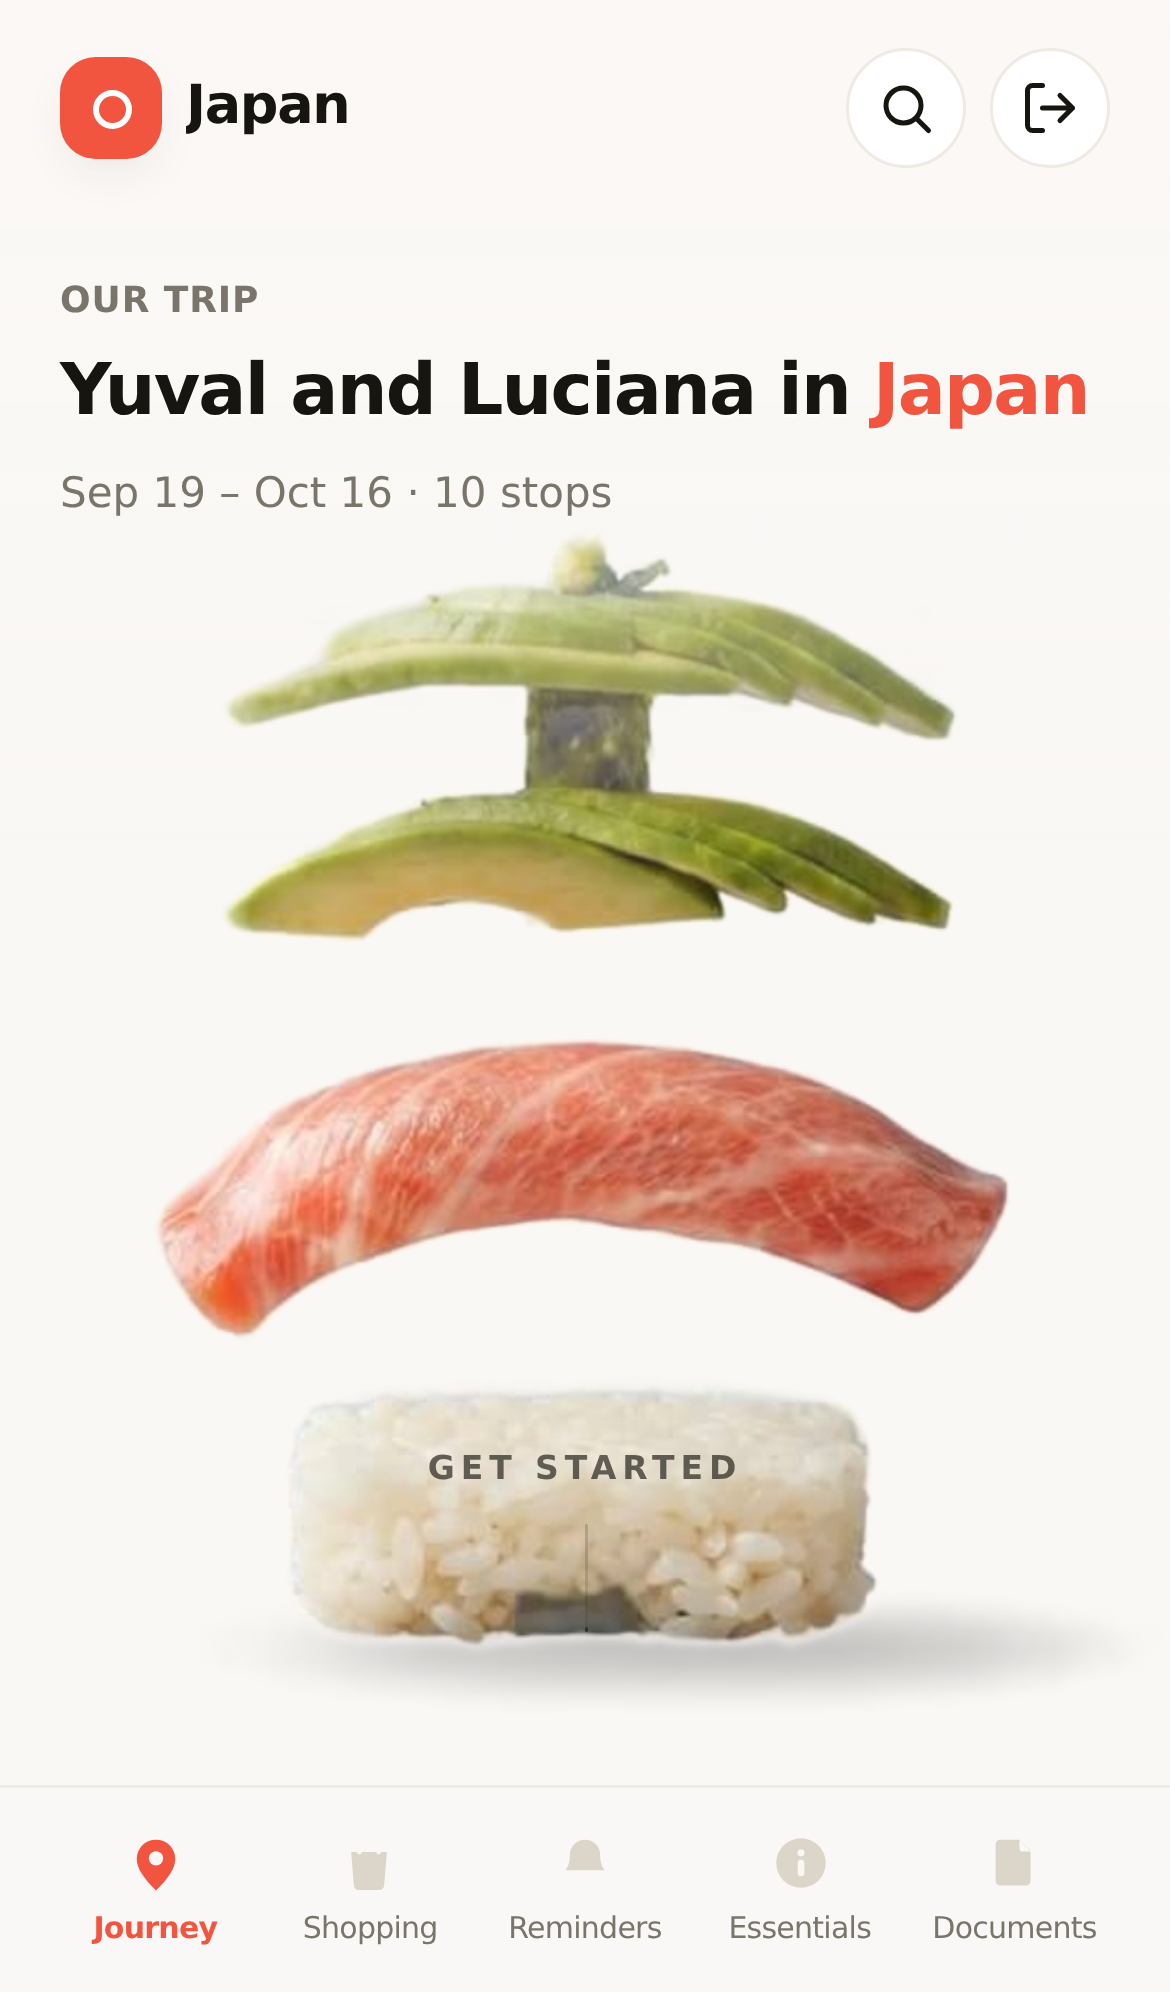
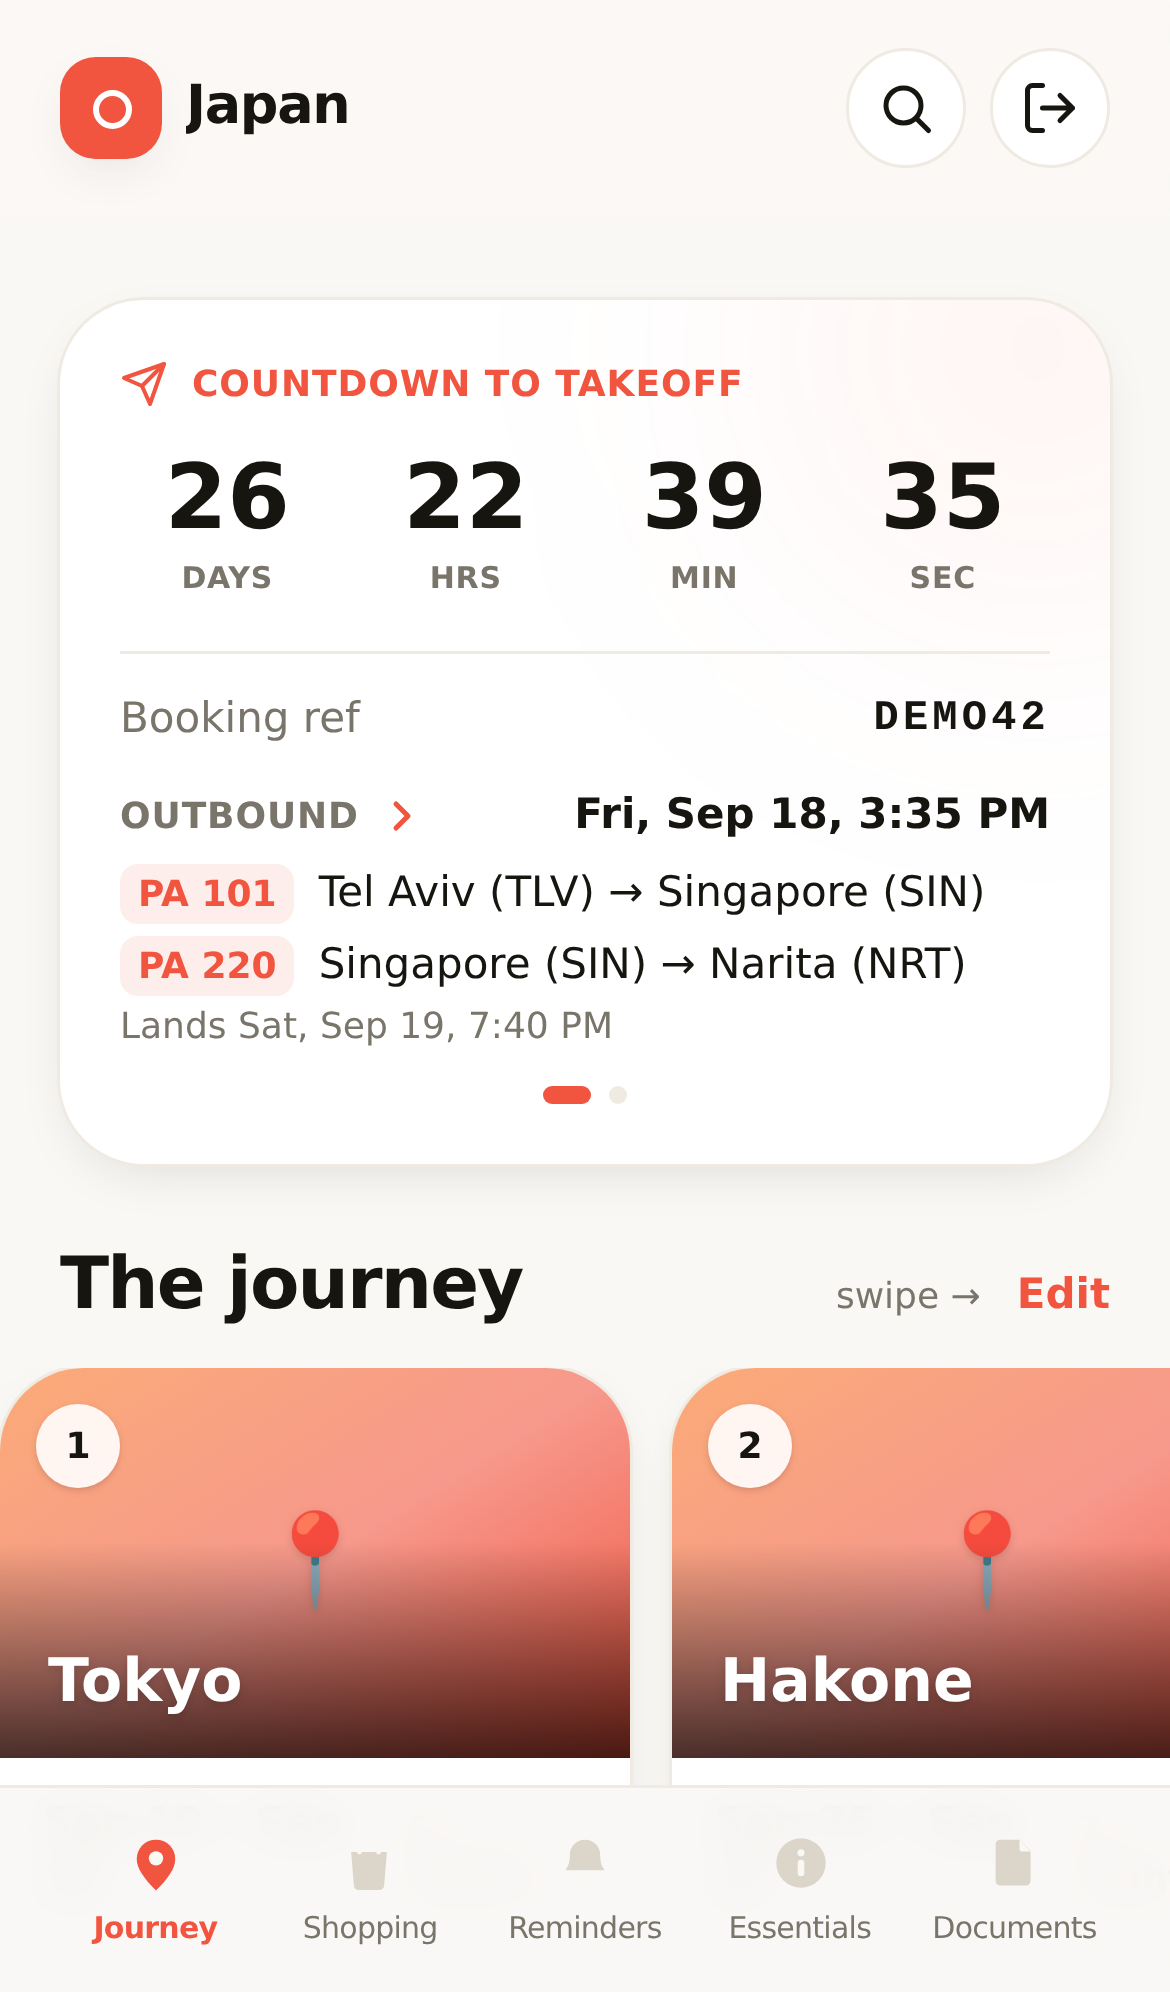
fix(video): a whole device, real content in it, and no real booking
Three things the first cut got wrong.

**The device looked broken.** Bleeding the handset off the bottom edge
kept the UI legible, but it reads as a bad crop rather than a choice. It
is now a complete screen — bezel on all four sides, air above and below —
and the screenshot scrolls *inside* it. Same legibility, nothing cut.

**The footage was one viewport deep.** A screenshot captures what is on
screen, so the journey shot was the pinned sushi hero rather than the
journey, and the line about ten cities played over a floating avocado.
Shots can now name what to scroll into view — by selector, not by pixel
offset, because the page height moves with the content and with whether
the hero is pinned. The journey shot is now the countdown, the flight and
the first stops, which is what the line is about.

**It published a real booking reference.** `placeholder-data.json` holds
the travellers' actual Ethiopian Airlines reference and ticket numbers,
correctly — it mirrors the live database. Correct for a seed, wrong for a
video going on LinkedIn. The capture rig now substitutes a fictional
booking, and leaves the seed alone.

Claude-Session: https://claude.ai/code/session_01Hr2wL4xGD7xVtsfP9goZ5v

diff --git a/video/src/onward/PhoneFrame.tsx b/video/src/onward/PhoneFrame.tsx
@@ -1,61 +1,78 @@
-// A phone with a real screenshot in it.
+// A phone screen, whole, with a real screenshot scrolling inside it.
 //
-// The captures are 1170×2532 — far taller than a square frame — so the frame
-// bleeds off the bottom and `focus` picks which part of the screen sits in
-// view. Showing a whole phone shrunk to fit would make the UI unreadable,
-// which defeats the point of capturing the real thing.
+// The captures are 1170×2532 — two and a half times taller than a 1080 square
+// frame. An entire handset scaled to fit would put the app's body text at
+// about five pixels in a feed, which is no use to anyone; bleeding the handset
+// off the bottom keeps it legible but reads as a broken crop rather than a
+// choice. So the device is a *window*: a complete, self-contained screen with
+// bezel on all four sides, and `focus` decides which part of the tall
+// screenshot sits in it.
 import { AbsoluteFill, CanvasImage, Easing, interpolate, staticFile } from 'remotion'
 import { COLORS } from './theme'
 
 const SHOT_W = 1170
 const SHOT_H = 2532
 
-export const PHONE_W = 646
-export const PHONE_TOP = 372
+/** The visible screen, inside the bezel. */
+export const SCREEN_W = 640
+export const SCREEN_H = 680
+const BEZEL = 11
+export const DEVICE_TOP = 300
+
+/** How far the screenshot can travel before its bottom edge shows. */
+const SCALE = SCREEN_W / SHOT_W
+const FULL_H = SHOT_H * SCALE
+const MAX_TRAVEL = FULL_H - SCREEN_H
+
+/** A slow drift over the shot's life, so it reads as scrolling, not as a still. */
+const DRIFT = 58
 
 export const PhoneFrame: React.FC<{
   screen: string
-  /** 0 = top of the screenshot in view, 1 = bottom. */
+  /** 0 = the top of the screenshot in view, 1 = the bottom. */
   focus: number
   /** Frames since this screen appeared, for the entrance. */
   localFrame: number
 }> = ({ screen, focus, localFrame }) => {
-  const scale = PHONE_W / SHOT_W
-  const screenH = SHOT_H * scale
-  // How far the screenshot slides up inside the frame to show `focus`.
-  const visibleH = 1080 - PHONE_TOP + 120
-  const offset = -(screenH - visibleH) * Math.max(0, Math.min(1, focus))
+  const start = -MAX_TRAVEL * Math.max(0, Math.min(1, focus))
+  // Clamped so the drift can never expose the end of the screenshot.
+  const end = Math.max(-MAX_TRAVEL, start - DRIFT)
 
   return (
     <AbsoluteFill name="Phone" style={{ alignItems: 'center' }}>
       <div
         style={{
           position: 'absolute',
-          top: PHONE_TOP,
-          width: PHONE_W + 26,
-          height: screenH + 26,
-          borderRadius: 76,
-          background: '#101010',
-          boxShadow: '0 40px 90px -30px rgba(22,26,34,0.45)',
-          padding: 13,
-          overflow: 'hidden',
+          top: DEVICE_TOP,
+          width: SCREEN_W + BEZEL * 2,
+          height: SCREEN_H + BEZEL * 2,
+          borderRadius: 52,
+          background: '#141312',
+          boxShadow: '0 46px 90px -34px rgba(22,26,34,0.5)',
+          padding: BEZEL,
           opacity: interpolate(localFrame, [0, 14], [0, 1], {
             extrapolateLeft: 'clamp',
             extrapolateRight: 'clamp',
             easing: Easing.bezier(0.16, 1, 0.3, 1),
           }),
-          translate: interpolate(localFrame, [0, 22], ['0px 46px', '0px 0px'], {
+          translate: interpolate(localFrame, [0, 24], ['0px 38px', '0px 0px'], {
             extrapolateLeft: 'clamp',
             extrapolateRight: 'clamp',
             easing: Easing.bezier(0.16, 1, 0.3, 1),
+          }),
+          scale: interpolate(localFrame, [0, 24], [0.965, 1], {
+            extrapolateLeft: 'clamp',
+            extrapolateRight: 'clamp',
+            easing: Easing.bezier(0.16, 1, 0.3, 1),
+            output: 'perceptual-scale',
           }),
         }}
       >
         <div
           style={{
-            width: PHONE_W,
-            height: screenH,
-            borderRadius: 64,
+            width: SCREEN_W,
+            height: SCREEN_H,
+            borderRadius: 41,
             overflow: 'hidden',
             background: COLORS.canvas,
             position: 'relative',
@@ -66,15 +83,19 @@ export const PhoneFrame: React.FC<{
             style={{
               position: 'absolute',
               top: 0,
-              width: PHONE_W,
-              height: screenH,
-              // A slow drift up over the shot's life: the screen reads as
-              // something being scrolled rather than a still someone pasted.
-              translate: interpolate(localFrame, [0, 140], [`0px ${offset}px`, `0px ${offset - 54}px`], {
-                extrapolateLeft: 'clamp',
-                extrapolateRight: 'clamp',
-                easing: Easing.bezier(0.33, 0, 0.67, 1),
-              }),
+              left: 0,
+              width: SCREEN_W,
+              height: FULL_H,
+              translate: interpolate(
+                localFrame,
+                [0, 150],
+                [`0px ${start}px`, `0px ${end}px`],
+                {
+                  extrapolateLeft: 'clamp',
+                  extrapolateRight: 'clamp',
+                  easing: Easing.bezier(0.33, 0, 0.67, 1),
+                }
+              ),
             }}
           />
         </div>

diff --git a/scripts/demo-server.ts b/scripts/demo-server.ts
@@ -39,9 +39,44 @@ const PARTNER = {
 }
 
 /**
+ * A booking that does not exist.
+ *
+ * `placeholder-data.json` carries the travellers' real Ethiopian Airlines
+ * reference and ticket numbers, because it mirrors what is in the live
+ * database. That is right for the seed and wrong for a video going on
+ * LinkedIn, so the capture rig swaps it for a fictional one. The seed itself
+ * is left alone.
+ */
+const DEMO_FLIGHT = {
+  airline: 'Pacific Air',
+  booking_ref: 'DEMO42',
+  outbound: {
+    depart_at: '2026-09-18T15:35:00+03:00',
+    depart_tz: 'Asia/Jerusalem',
+    arrive_at: '2026-09-19T19:40:00+09:00',
+    arrive_tz: 'Asia/Tokyo',
+    legs: [
+      { flight_no: 'PA 101', from: 'Tel Aviv (TLV)', to: 'Singapore (SIN)' },
+      { flight_no: 'PA 220', from: 'Singapore (SIN)', to: 'Narita (NRT)' },
+    ],
+  },
+  return_flight: {
+    depart_at: '2026-10-16T20:40:00+09:00',
+    depart_tz: 'Asia/Tokyo',
+    arrive_at: '2026-10-17T14:35:00+03:00',
+    arrive_tz: 'Asia/Jerusalem',
+    legs: [
+      { flight_no: 'PA 221', from: 'Narita (NRT)', to: 'Singapore (SIN)' },
+      { flight_no: 'PA 102', from: 'Singapore (SIN)', to: 'Tel Aviv (TLV)' },
+    ],
+  },
+}
+
+/**
  * The shipped placeholder trip, plus the two accounts it belongs to. The
  * content is the real thing — that JSON is the seed the live database was
- * built from — so the footage shows the actual app, not a mock of it.
+ * built from — so the footage shows the actual app, not a mock of it. Only
+ * the flight is substituted, for the reason above.
  */
 function demoData(): MemoryData {
   const file = path.join(ROOT, 'server/src/data/placeholder-data.json')
@@ -49,6 +84,7 @@ function demoData(): MemoryData {
   const full = { can_see_stays: true, can_see_flight: true, can_see_documents: true }
   return {
     ...data,
+    trips: data.trips.map((t) => ({ ...t, flight: DEMO_FLIGHT })),
     profiles: [DEMO_USER, PARTNER].map(({ email_confirmed: _c, ...p }) => p),
     members: [
       { trip_id: 'trip-japan', user_id: DEMO_USER.id, role: 'owner', ...full },

diff --git a/video/src/OnwardPromo.tsx b/video/src/OnwardPromo.tsx
@@ -54,13 +54,13 @@ const Caption: React.FC<{ text: string; length: number }> = ({ text, length }) =
       name="Caption"
       style={{
         position: 'absolute',
-        top: 96,
-        left: 88,
-        right: 88,
+        top: 86,
+        left: 84,
+        right: 84,
         fontFamily: DISPLAY,
-        fontSize: 62,
+        fontSize: 57,
         fontWeight: 700,
-        lineHeight: 1.14,
+        lineHeight: 1.15,
         letterSpacing: '-0.02em',
         color: COLORS.ink,
         textAlign: 'center',
@@ -89,7 +89,7 @@ const Pin: React.FC<{ text: string }> = ({ text }) => {
       name="Pin"
       style={{
         position: 'absolute',
-        top: 292,
+        top: 242,
         left: 0,
         right: 0,
         textAlign: 'center',
